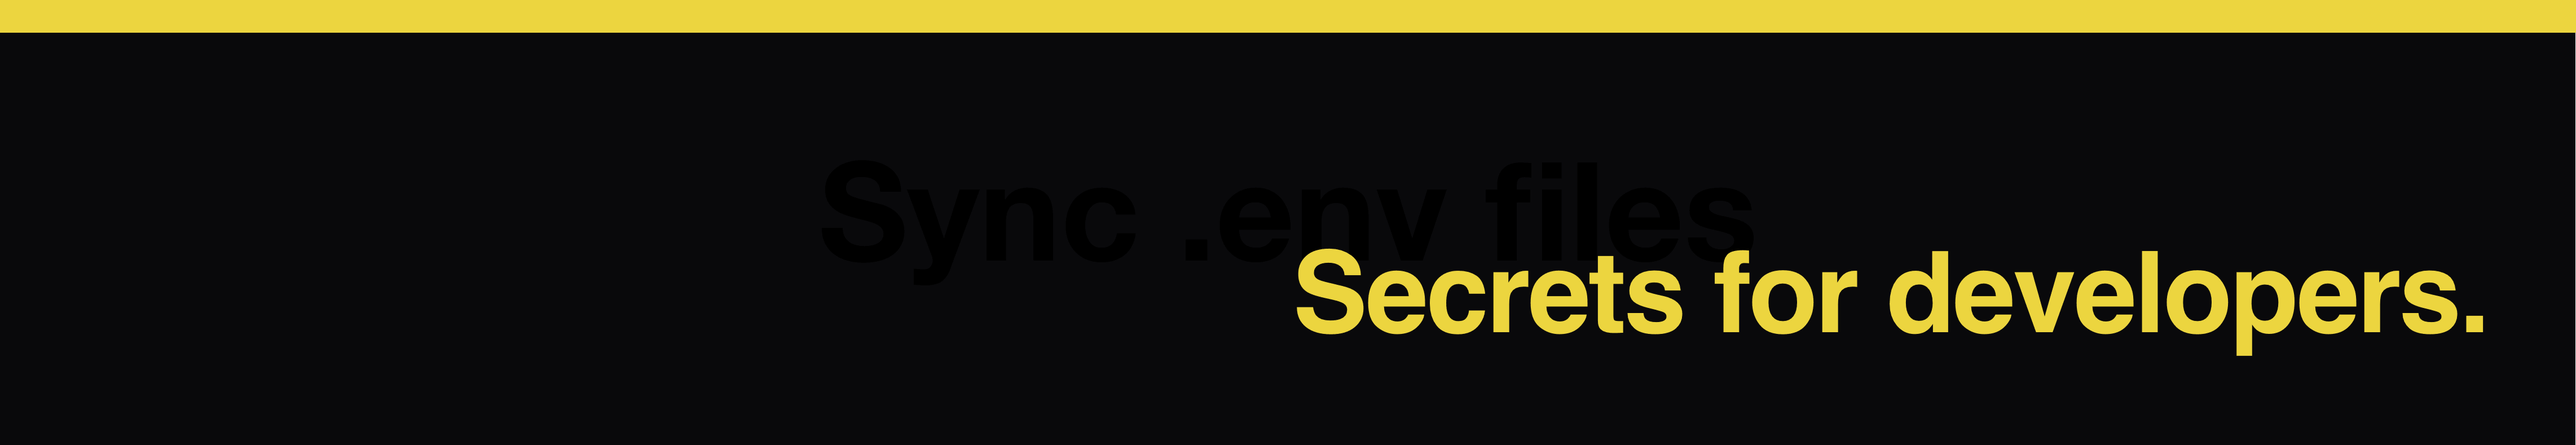
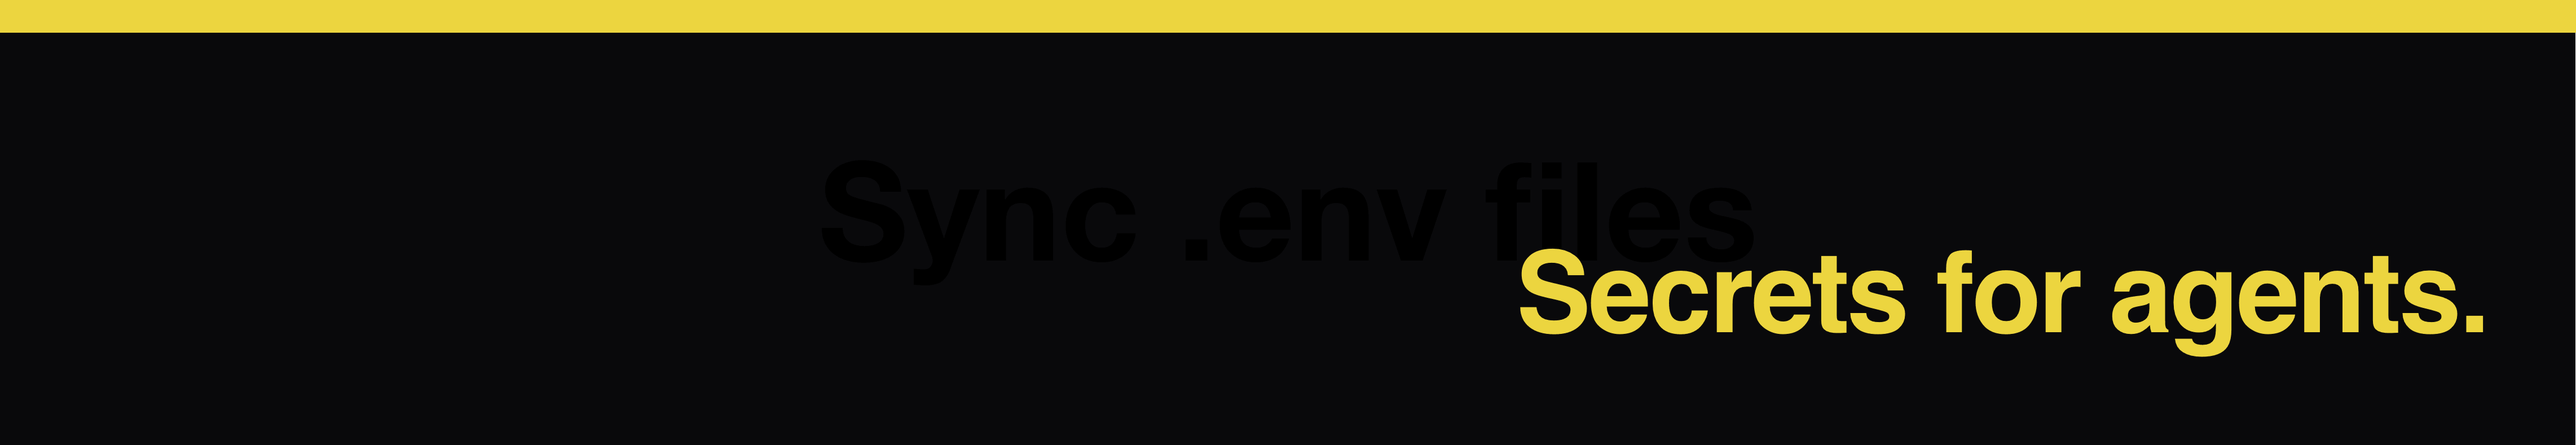
for agents–and their developers

Changed region(s): [[0.4975, 0.5475, 0.9328, 0.8213]]

diff --git a/index.md b/index.md
@@ -10,7 +10,7 @@ title: ""
         {% include v1/components/dotenv.html %}
       </div>
       <h1 class="hero-title-shaded font-canela font-normal tracking-[-0.018em] text-[3.88rem] md:text-[4.62rem] lg:text-[5.38rem] text-center md:text-left leading-[1.02] md:leading-[1.00] pb-2">Secrets for Agents</h1>
-      <p class="mt-[-0.72rem] md:mt-[-0.92rem] mx-auto lg:mx-0 max-w-[28rem] sm:max-w-[34rem] md:max-w-none text-center md:text-left text-[1.07rem] md:text-[1.16rem]">Encrypt your .env files without changing your workflow. <br class="hidden sm:block md:hidden lg:block" />Protect secrets in source code and AI prompts.</p>
+      <p class="mt-[-0.72rem] md:mt-[-0.92rem] mx-auto lg:mx-0 max-w-[28rem] sm:max-w-[34rem] md:max-w-none text-center md:text-left text-[1.07rem] md:text-[1.16rem]">Encrypted by default for agents–and their developers.<br />Never leak secrets into prompts, code, or runtime.</p>
 
       <div class="flex flex-row gap-4 my-2 justify-center md:justify-start">
         <a class="btn-primary" href="/docs/quickstart">Get Started</a>
